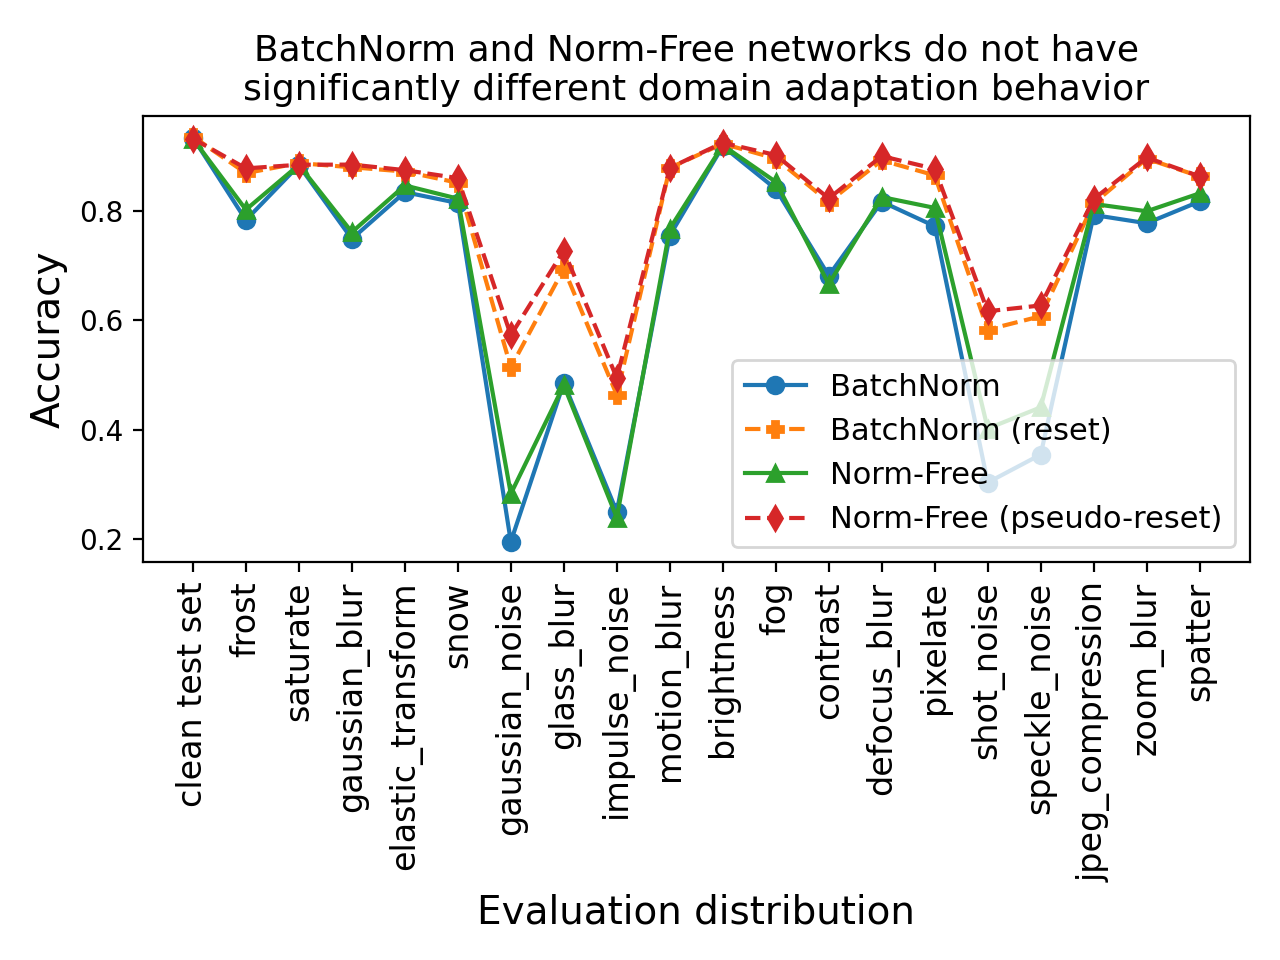
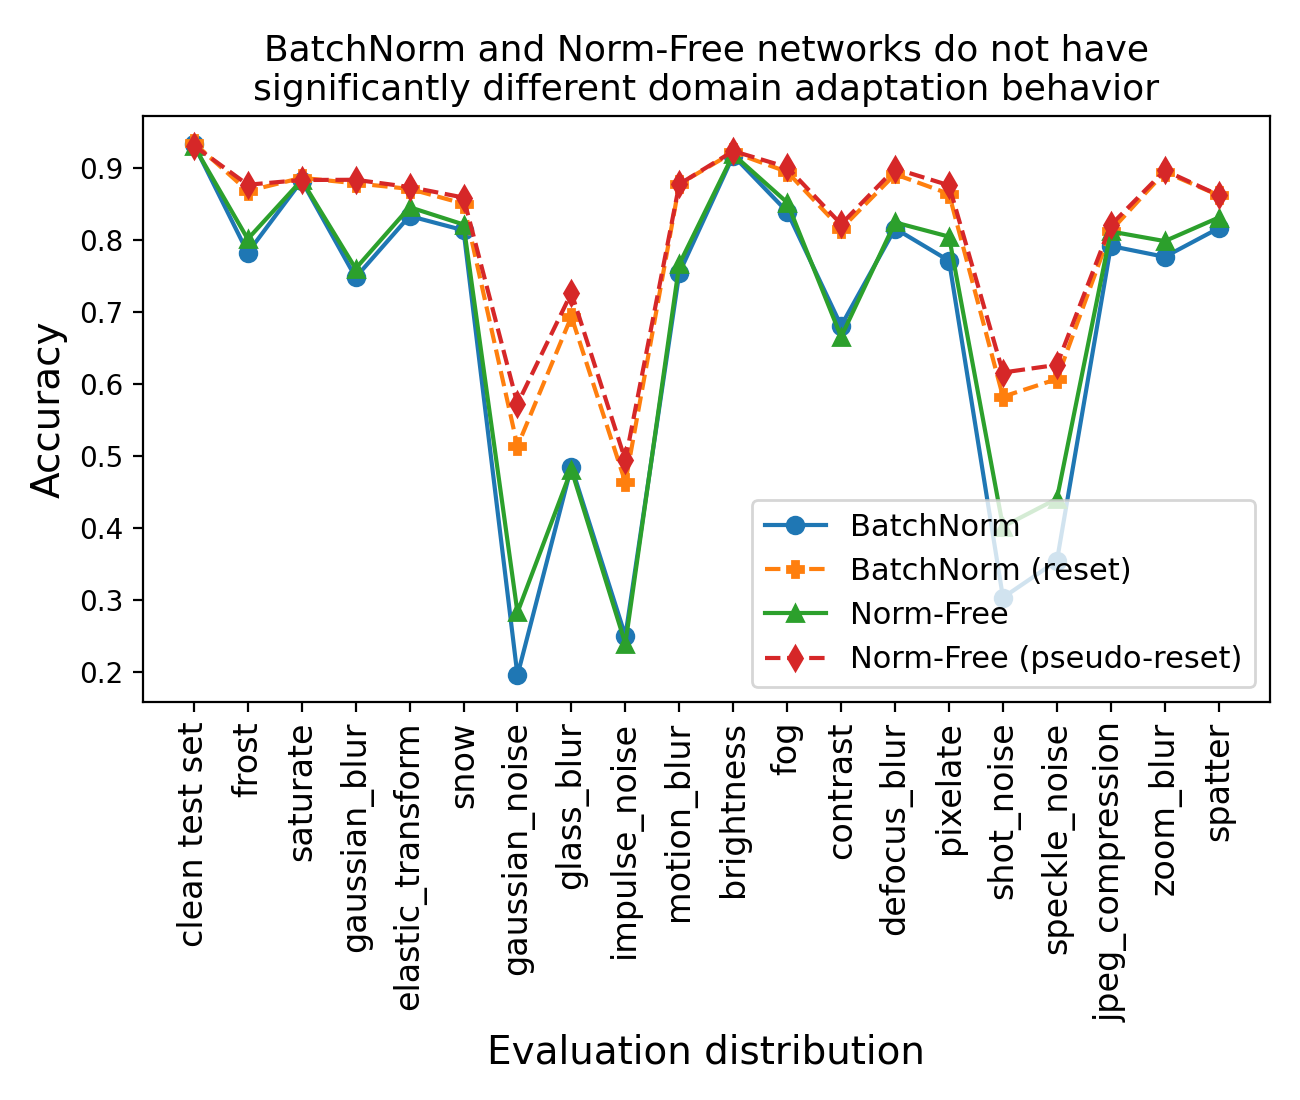
.

diff --git a/make_figure.py b/make_figure.py
@@ -15,12 +15,13 @@ labels = [
 ]
 
 colors = plt.rcParams['axes.prop_cycle'].by_key()['color']
+plt.figure(figsize=(6.5, 5.5))
 for i, k in labels:
     plt.plot(results[i], label=k,
              marker=['^', 'd', 'o', 'P'][i], markersize=6,
              linestyle=['solid', 'dashed'][int('reset' in k)])
 plt.xticks(list(range(len(corruptions1))), corruptions1, rotation='vertical', fontsize=12)
-plt.legend(fontsize=11)
+plt.legend(fontsize=11, loc='lower right')
 plt.ylabel('Accuracy', fontsize=14)
 plt.xlabel('Evaluation distribution', fontsize=14)
 plt.title('BatchNorm and Norm-Free networks do not have\nsignificantly different domain adaptation behavior',
